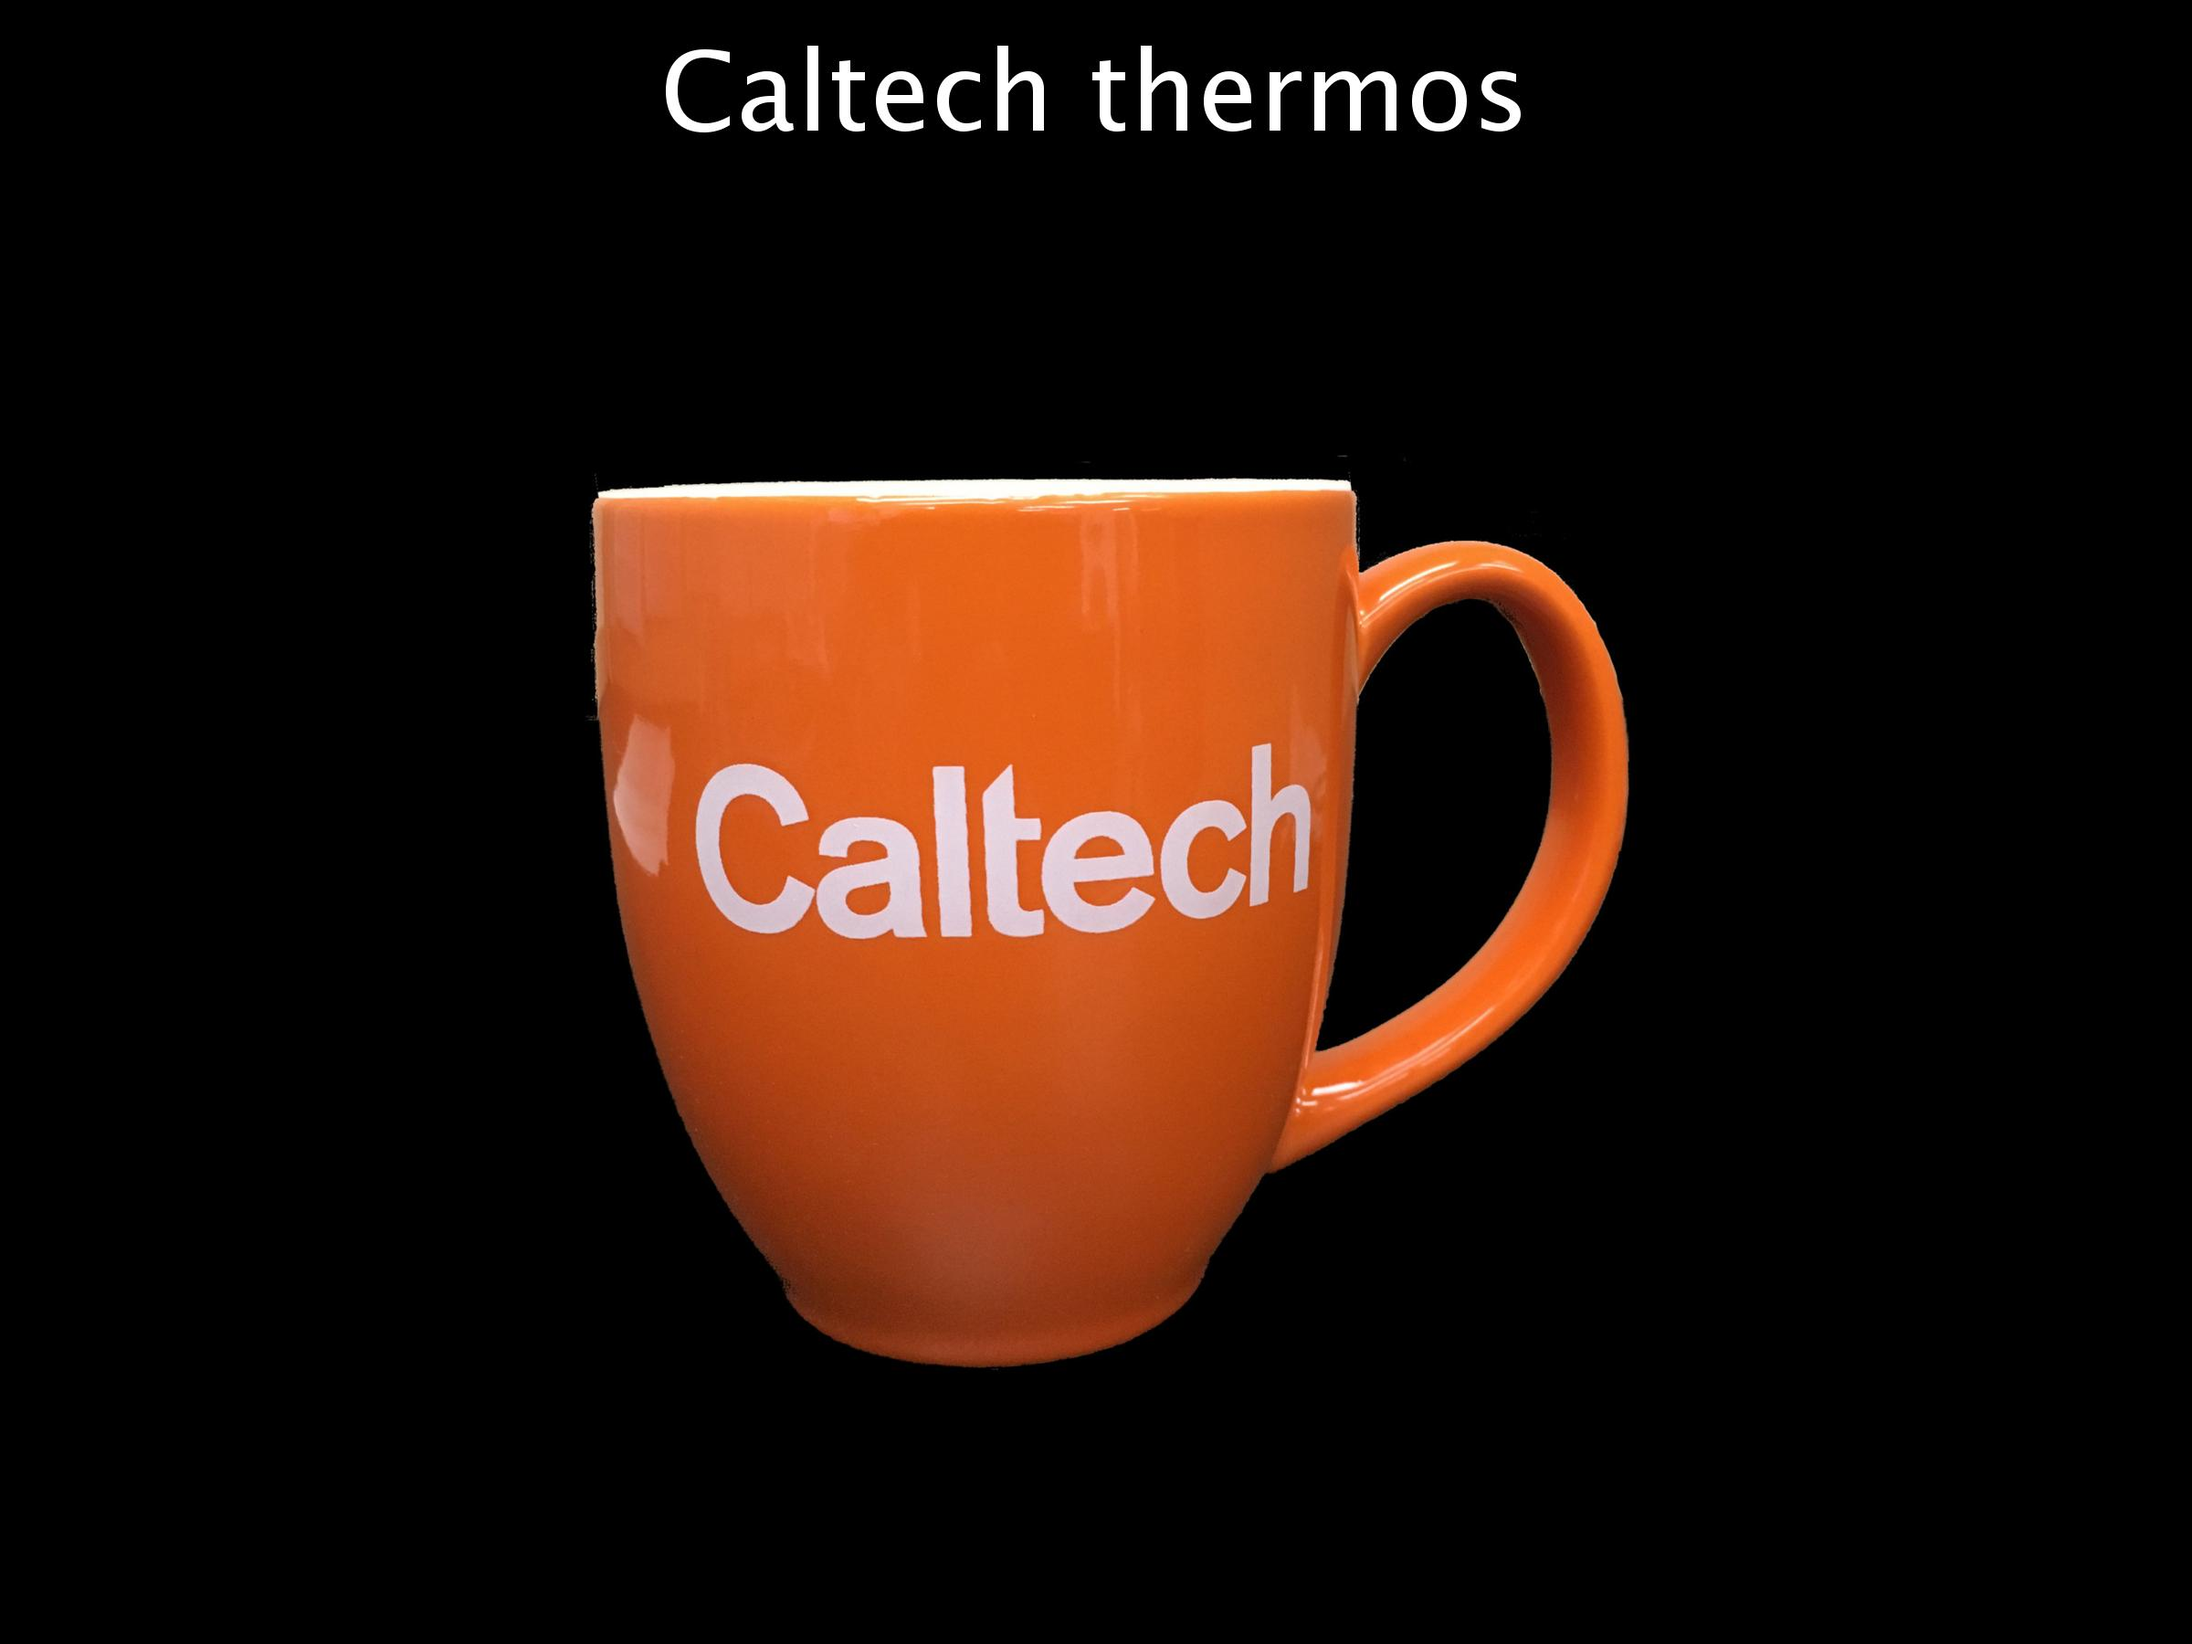
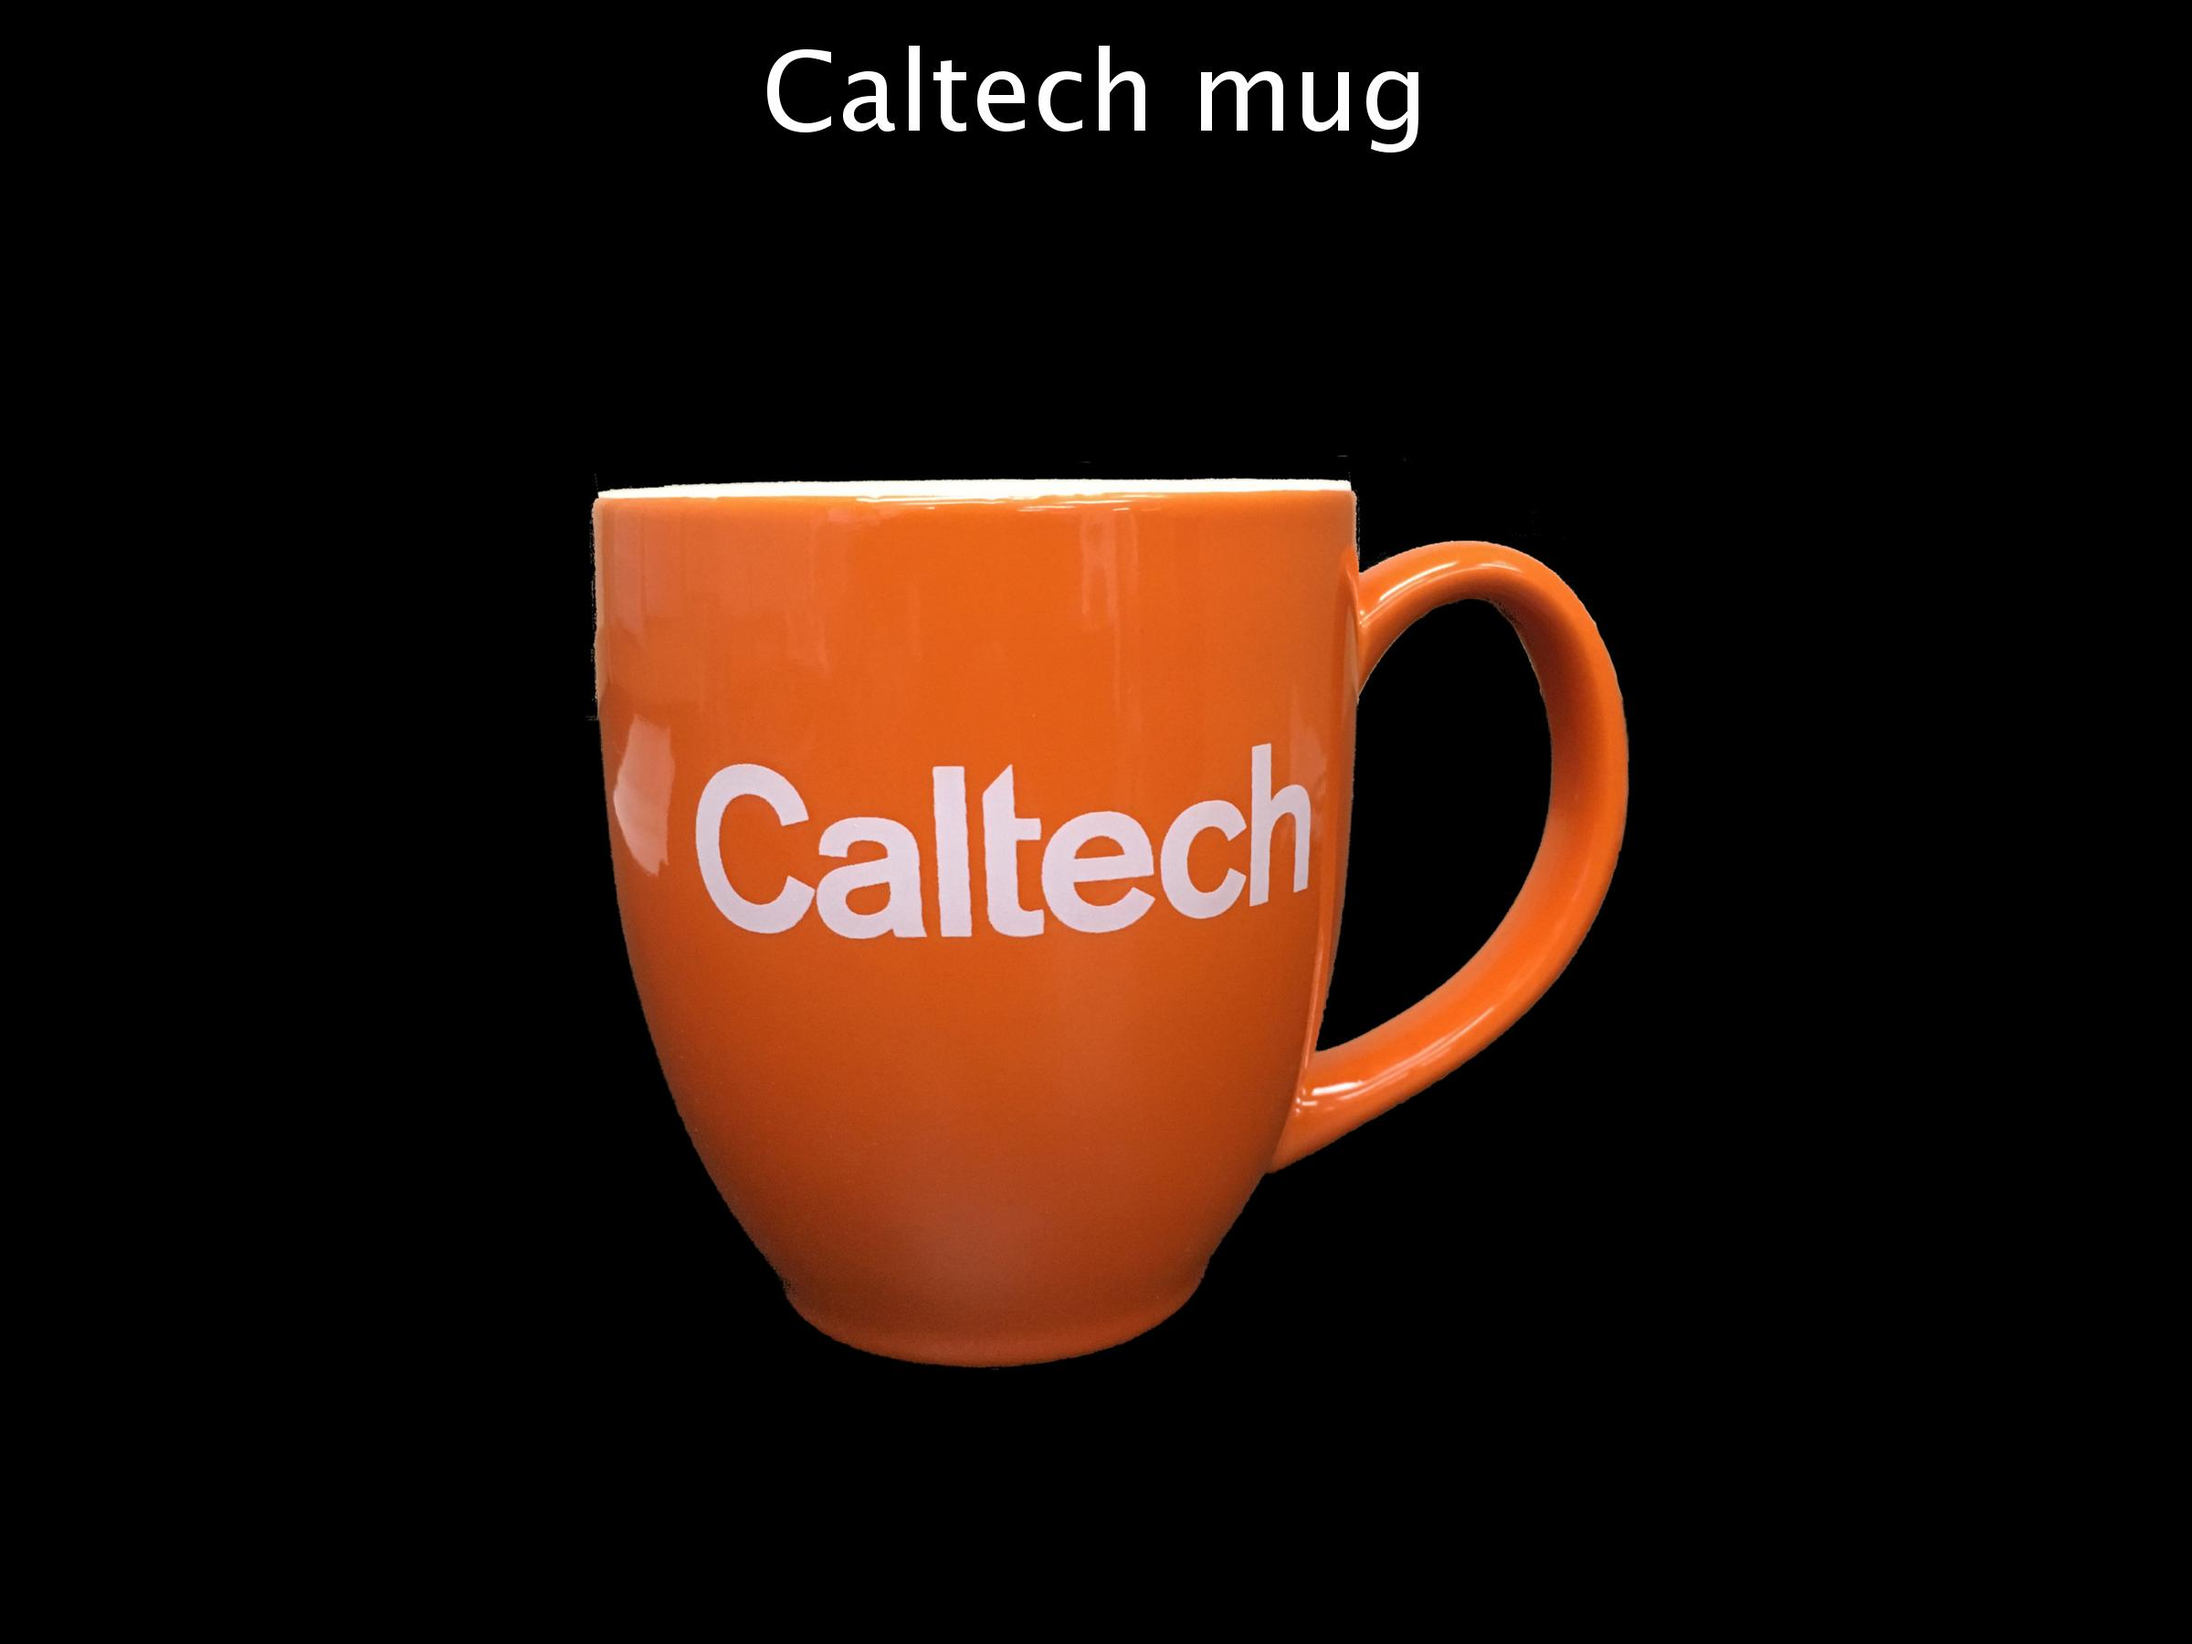
Updated images

Changed region(s): [[0.2812, 0.0311, 0.6875, 0.0933]]

diff --git a/NewObjects/MATLAB code/AddText.m b/NewObjects/MATLAB code/AddText.m
@@ -1,9 +1,9 @@
 % Load files
 
-type='food'; %trinket or food
+type='trinket'; %trinket or food
 
-orig_file_dir=sprintf('/Users/WhitneyGriggs/Box Sync/UCLA MSTP/Summer Rotation 2018/Logan Cross Project/Bundles_0601/GitHub_Bundles_bdm/Bundles_bdm_only/NewObjects/WithoutText/imgs_%s/',type);
-save_file_dir=sprintf('/Users/WhitneyGriggs/Box Sync/UCLA MSTP/Summer Rotation 2018/Logan Cross Project/Bundles_0601/GitHub_Bundles_bdm/Bundles_bdm_only/NewObjects/WithText/imgs_%s/',type);
+orig_file_dir=sprintf('/Volumes/WGExpansion/Box Sync/UCLA MSTP/Summer Rotation 2018/Logan Cross Project/Bundles_0601/GitHub_Bundles_bdm/Bundles_bdm_only/NewObjects/WithoutText/imgs_%s/',type);
+save_file_dir=sprintf('/Volumes/WGExpansion/Box Sync/UCLA MSTP/Summer Rotation 2018/Logan Cross Project/Bundles_0601/GitHub_Bundles_bdm/Bundles_bdm_only/NewObjects/WithText/imgs_%s/',type);
 
 imagesToLoad=dir([orig_file_dir '*.jpg']);
 imagesToLoad=sort_nat({imagesToLoad.name});
@@ -24,7 +24,7 @@ if strcmp(type,'food')
         'Chocolate Chip Clif Bars','Blueberry Crisp Clif Bars','Yogurt Pretzels','Chocolate Pretzels','Ferrero Chocolates','Ghiradelli Chocolates'};
 else
     img_str={'A Brief History of Time book','Freakonomics book','1984 book','Water bottle','Wireless mouse','Yoga mat','Hitchhiker''s Guide to the Galaxy book','Lord of the Rings Trilogy book',...
-        'Caltech backpack','Caltech hat','Caltech banner','Caltech keychain','16GB USB stick','Caltech thermos','Caltech drawstring bag','Desk lamp','Stapler','Over-the-ear headphones','HEAD backpack',...
+        'Caltech backpack','Caltech hat','Caltech banner','Caltech keychain','16GB USB stick','Caltech mug','Caltech drawstring bag','Desk lamp','Stapler','Over-the-ear headphones','HEAD backpack',...
         'AA Batteries','Lock','Notebook','Bathroom scale','Playing cards','Honey Clementine scented candle','Rose scented candle','Umbrella','Android charger','iPhone charger','Clothes hangers','Beach towel',...
         'Cooking utensils','Silverware','Pens','Plates','Portable charger','Portable speaker','Screwdrivers','Sunglasses','Surge protector'};
 end

diff --git a/sanity_check_nofunc_v3.m b/sanity_check_nofunc_v3.m
@@ -2,7 +2,7 @@ clear all;
 close all;
 
 
-subID='006-1';
+subID='008-1';
 %Modified to have similarity measure as part of regression model. 6/21/18
 %WG
 
